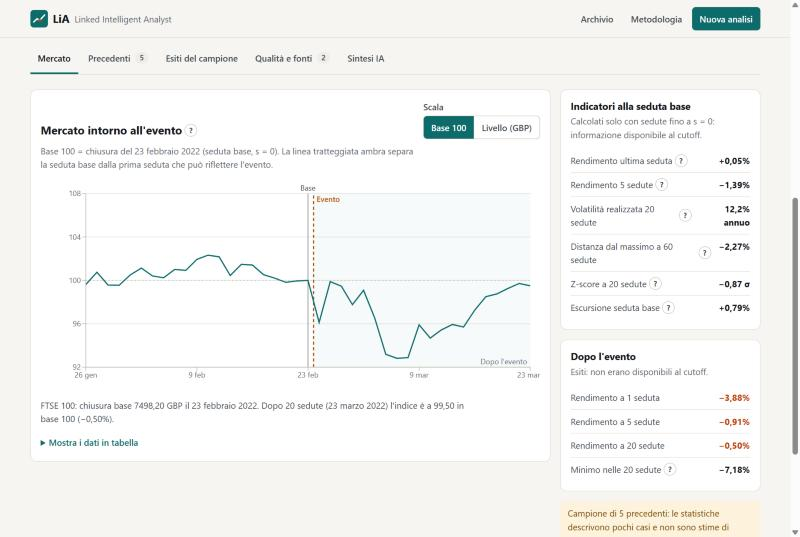
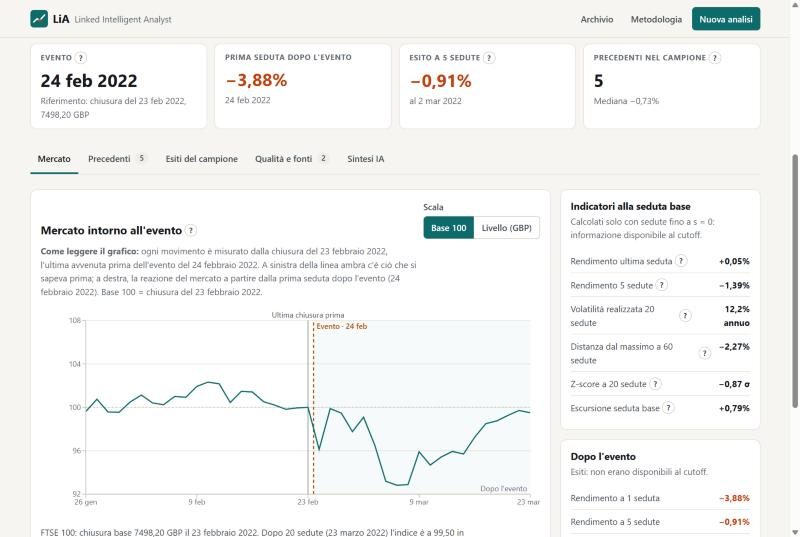
Show the event date first and explain the reference close
The key figures led with the base session (the day before the event), which
read as if the analysis were about the wrong day. The first card now shows
the event date with the reference close as detail; chart markers and the
chart note explain the alignment, and the README does the same.

diff --git a/frontend/src/features/analysis/MarketChart.jsx b/frontend/src/features/analysis/MarketChart.jsx
@@ -81,10 +81,11 @@ export default function MarketChart({ data, market, view, windowSize }) {
         />
       </div>
       <p className="chart-note">
-        {scale === 'index100'
-          ? `Base 100 = chiusura del ${baseDate} (seduta base, s = 0).`
-          : `Livello dell'indice in ${market.currency}.`}{' '}
-        La linea tratteggiata ambra separa la seduta base dalla prima seduta che può riflettere l'evento.
+        <strong>Come leggere il grafico:</strong> ogni movimento è misurato dalla chiusura del {baseDate}, l'ultima
+        avvenuta prima dell'evento del {formatDate(data.event_time?.occurred_on ?? data.base.date)}. A sinistra della
+        linea ambra c'è ciò che si sapeva prima; a destra, la reazione del mercato a partire dalla prima seduta dopo
+        l'evento{data.first_reaction && !asOf ? ` (${formatDate(data.first_reaction.date)})` : ''}.{' '}
+        {scale === 'index100' ? `Base 100 = chiusura del ${baseDate}.` : `Livello dell'indice in ${market.currency}.`}
       </p>
       <div className="chart-box" style={{ height: 340 }}>
         <ResponsiveContainer width="100%" height="100%">
@@ -109,13 +110,13 @@ export default function MarketChart({ data, market, view, windowSize }) {
               {...AXIS_PROPS}
             />
             {scale === 'index100' && <ReferenceLine y={100} stroke="var(--border-strong)" strokeDasharray="2 4" />}
-            <ReferenceLine x={0} stroke="var(--text-3)" label={{ value: 'Base', position: 'top', fill: 'var(--text-2)', fontSize: 12 }} />
+            <ReferenceLine x={0} stroke="var(--text-3)" label={{ value: 'Ultima chiusura prima', position: 'top', fill: 'var(--text-2)', fontSize: 12 }} />
             <ReferenceLine
               x={0.5}
               stroke="var(--event)"
               strokeWidth={2}
               strokeDasharray="5 4"
-              label={{ value: 'Evento', position: 'insideTopLeft', fill: 'var(--event)', fontSize: 12, fontWeight: 600 }}
+              label={{ value: `Evento · ${formatDate(data.event_time?.occurred_on ?? data.base.date, 'short')}`, position: 'insideTopLeft', fill: 'var(--event)', fontSize: 12, fontWeight: 600 }}
             />
             <Tooltip content={<ChartTooltip scale={scale} currency={market.currency} baseClose={data.base.close} />} cursor={{ stroke: 'var(--border-strong)' }} />
             <Line type="linear" dataKey={key} stroke="var(--accent)" strokeWidth={2} dot={false} activeDot={{ r: 4 }} {...ANIMATION} />

diff --git a/frontend/src/features/analysis/panels.jsx b/frontend/src/features/analysis/panels.jsx
@@ -42,11 +42,12 @@ export function KeyFigures({ data, view, horizon, market }) {
   const tone = (v) => (v === null || v === undefined ? undefined : v >= 0 ? 'up' : 'down')
   return (
     <div className="stat-grid stat-grid--key" aria-live="polite">
+      {/* La data mostrata per prima è quella dell'evento; la seduta base è solo il riferimento. */}
       <Stat
-        label="Seduta base"
+        label="Evento"
         term="base"
-        value={formatDate(data.base.date, 'medium')}
-        detail={`Chiusura ${formatNumber(data.base.close)} ${market.currency}`}
+        value={formatDate(data.event_time?.occurred_on ?? data.base.date, 'medium')}
+        detail={`Riferimento: chiusura del ${formatDate(data.base.date, 'medium')}, ${formatNumber(data.base.close)} ${market.currency}`}
       />
       <Stat
         label="Prima seduta dopo l'evento"

diff --git a/frontend/src/test/panels.test.jsx b/frontend/src/test/panels.test.jsx
@@ -67,6 +67,14 @@ describe('KeyFigures', () => {
     expect(screen.getByText('Nascosto')).toBeInTheDocument()
   })
 
+  it("mostra per prima la data dell'evento, non quella della seduta base", () => {
+    const data = { ...fixture(5), event_time: { occurred_on: '2020-01-11' } }
+    wrap(<KeyFigures data={data} view="retrospective" horizon="5" market={market} />)
+    expect(screen.getByText('Evento')).toBeInTheDocument()
+    expect(screen.getByText('11 gen 2020')).toBeInTheDocument()
+    expect(screen.getByText(/Riferimento: chiusura del 10 gen 2020/)).toBeInTheDocument()
+  })
+
   it('orizzonte non ancora osservabile', () => {
     wrap(<KeyFigures data={fixture(5)} view="retrospective" horizon="20" market={market} />)
     expect(screen.getByText('Non ancora osservabile')).toBeInTheDocument()

diff --git a/README.md b/README.md
@@ -39,7 +39,9 @@ Exploring a case takes three steps: open an event, look at the market around it,
 
 The thesis tested LiA on three shocks of different nature. All figures below are produced by the current version of LiA and match the historical closes.
 
-| Case | Base session | First session after the event | After 20 sessions | Precedents in the catalogue |
+> **How the dates line up.** LiA measures every move from **the last close before the event**, so each case has two dates: the event itself and the reference close of the previous trading session (for the invasion of Ukraine: event on 24 February 2022, reference close on 23 February). The first move shown — "first session after the event" — is the market's reaction **on the event day** — or on the first day the market traded after it — compared with that close. In the charts the amber dashed line marks the event: what is on its left was known before, what is on its right is the reaction. After 11 September, for example, Wall Street's first session after the event is the reopening on 17 September.
+
+| Case (event date) | Reference close (last before the event) | First session after the event | After 20 sessions | Precedents in the catalogue |
 | --- | --- | --- | --- | --- |
 | **Russia invades Ukraine** — 24 Feb 2022, geopolitical | 23 Feb 2022 | DAX **−3.96%**, FTSE 100 **−3.88%**, Nikkei **−1.81%**; S&P 500 **+1.50%** | DAX −2.38%, S&P 500 +5.46% | 5 |
 | **Lehman Brothers files for bankruptcy** — 15 Sep 2008, financial | 12 Sep 2008 | S&P 500 **−4.71%**, FTSE 100 −3.92%, DAX −2.74%, Nikkei −4.95% | S&P 500 **−28.16%**, every index between −22% and −28% | 0 |
